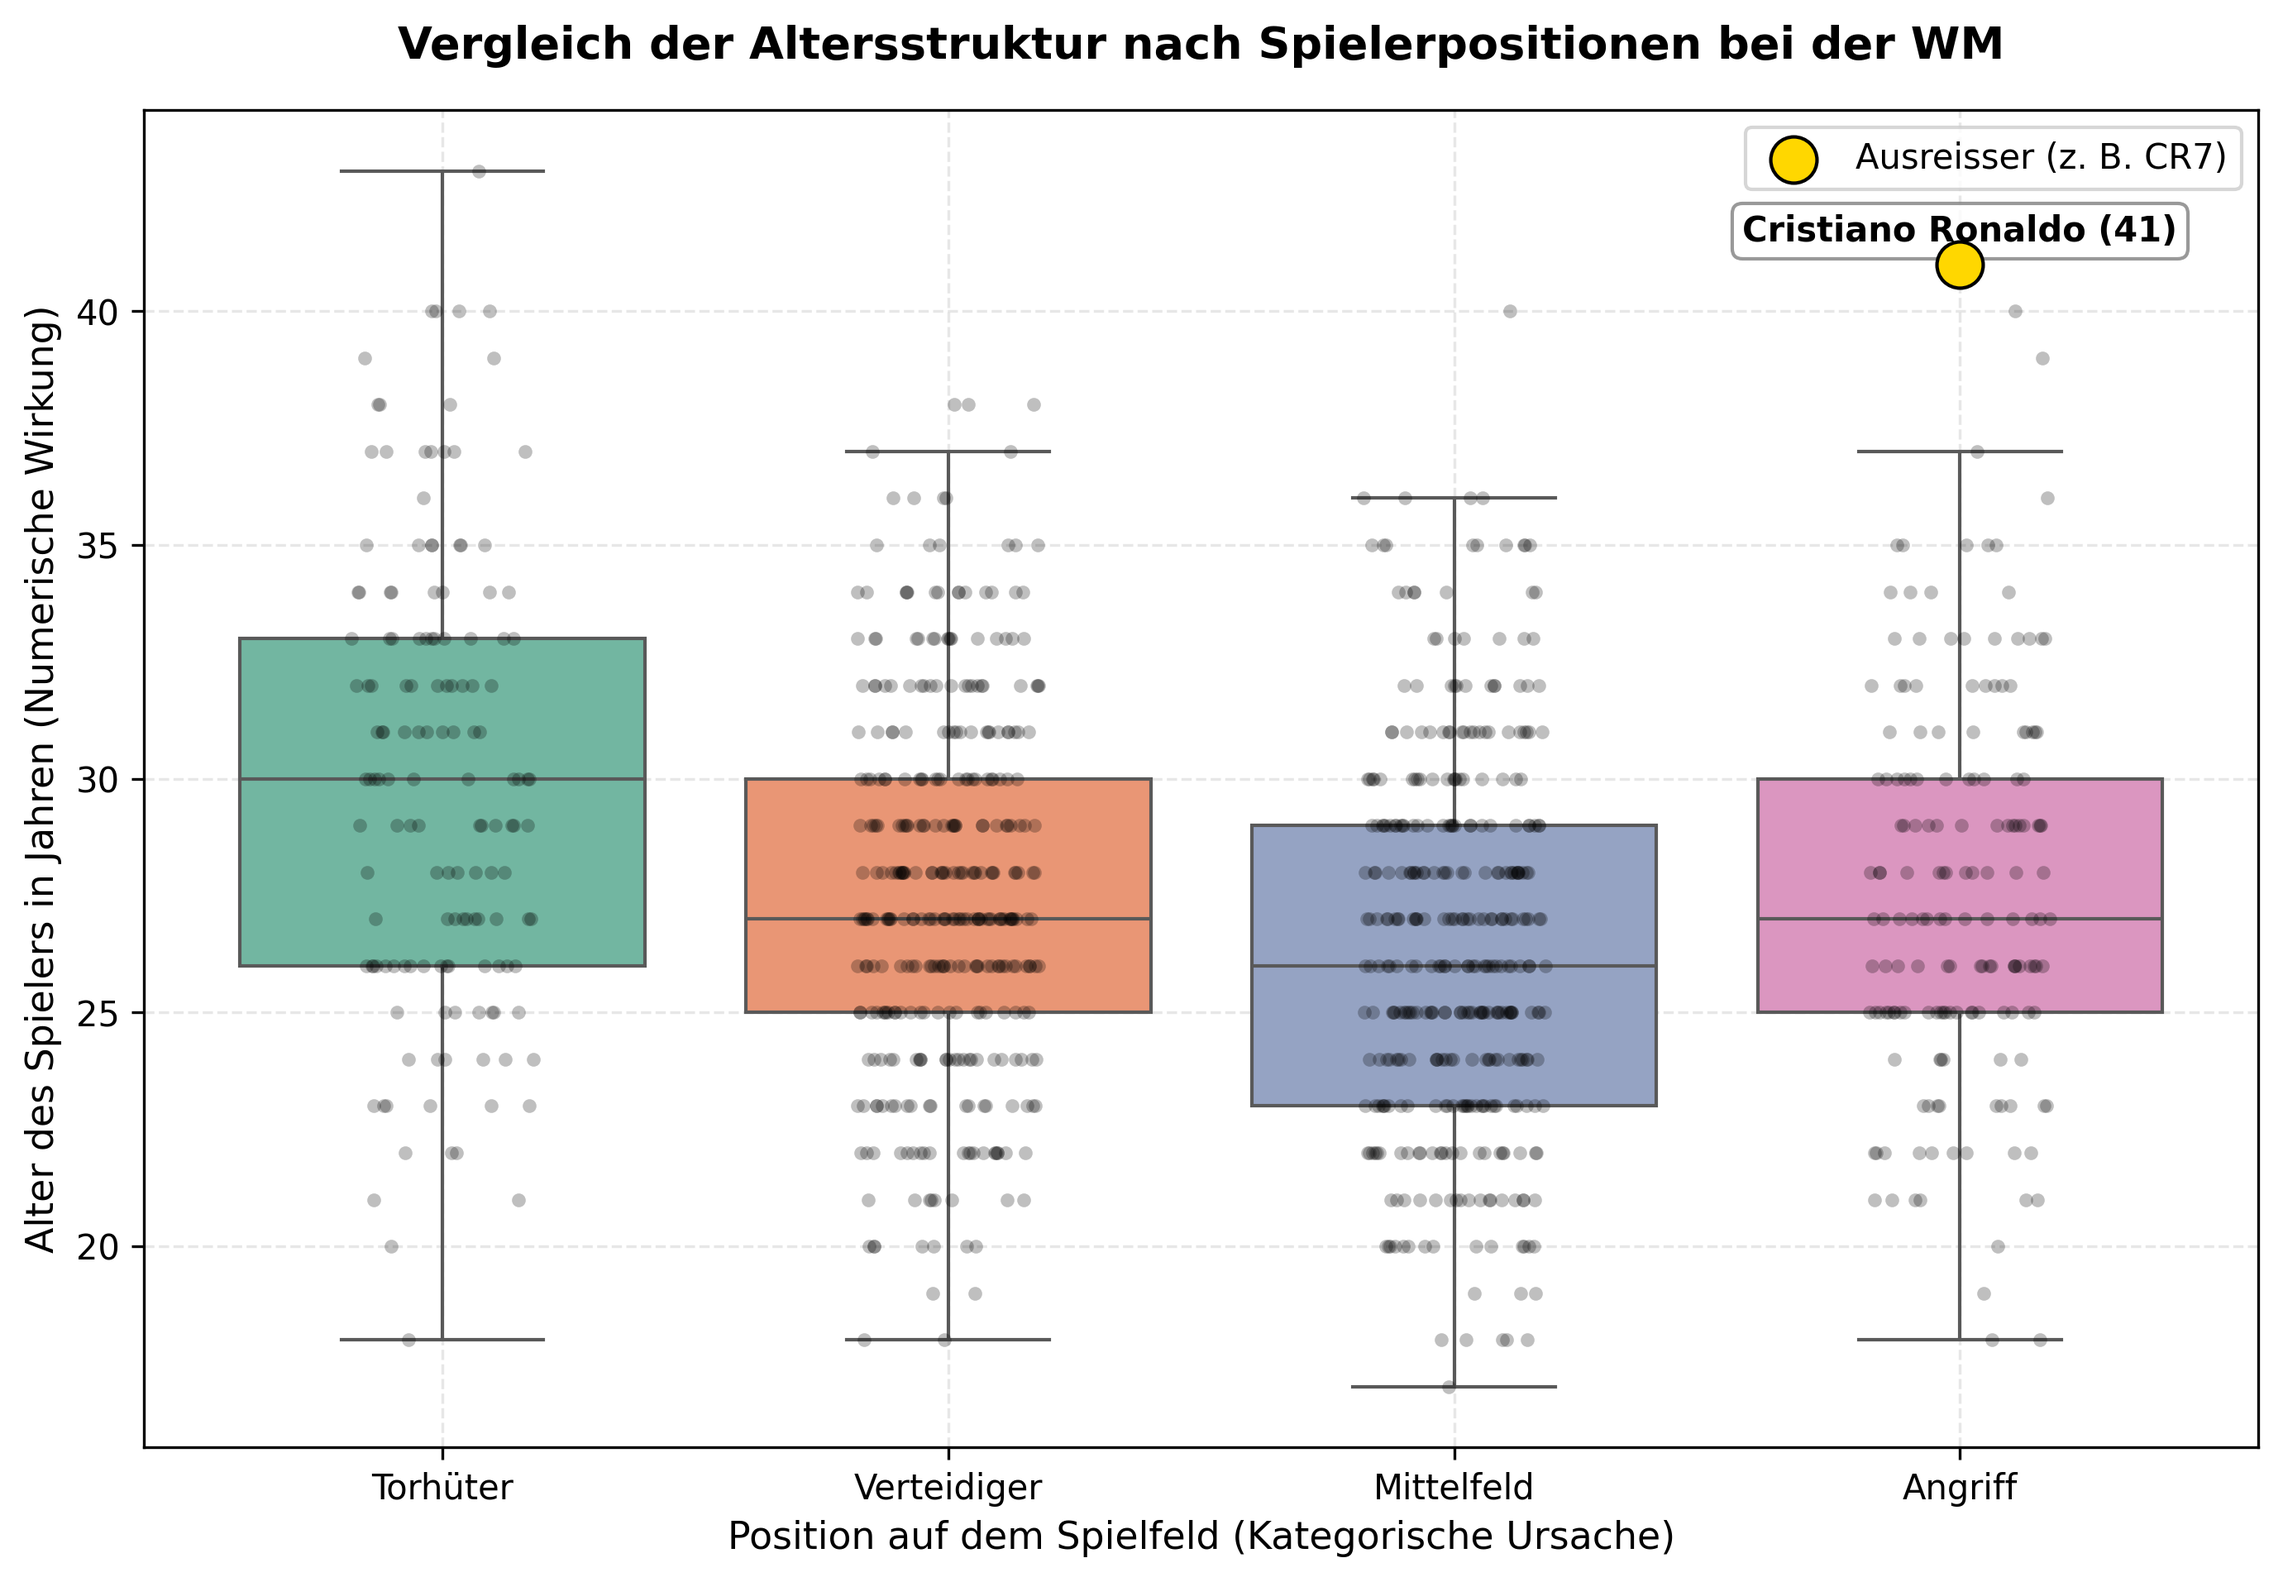
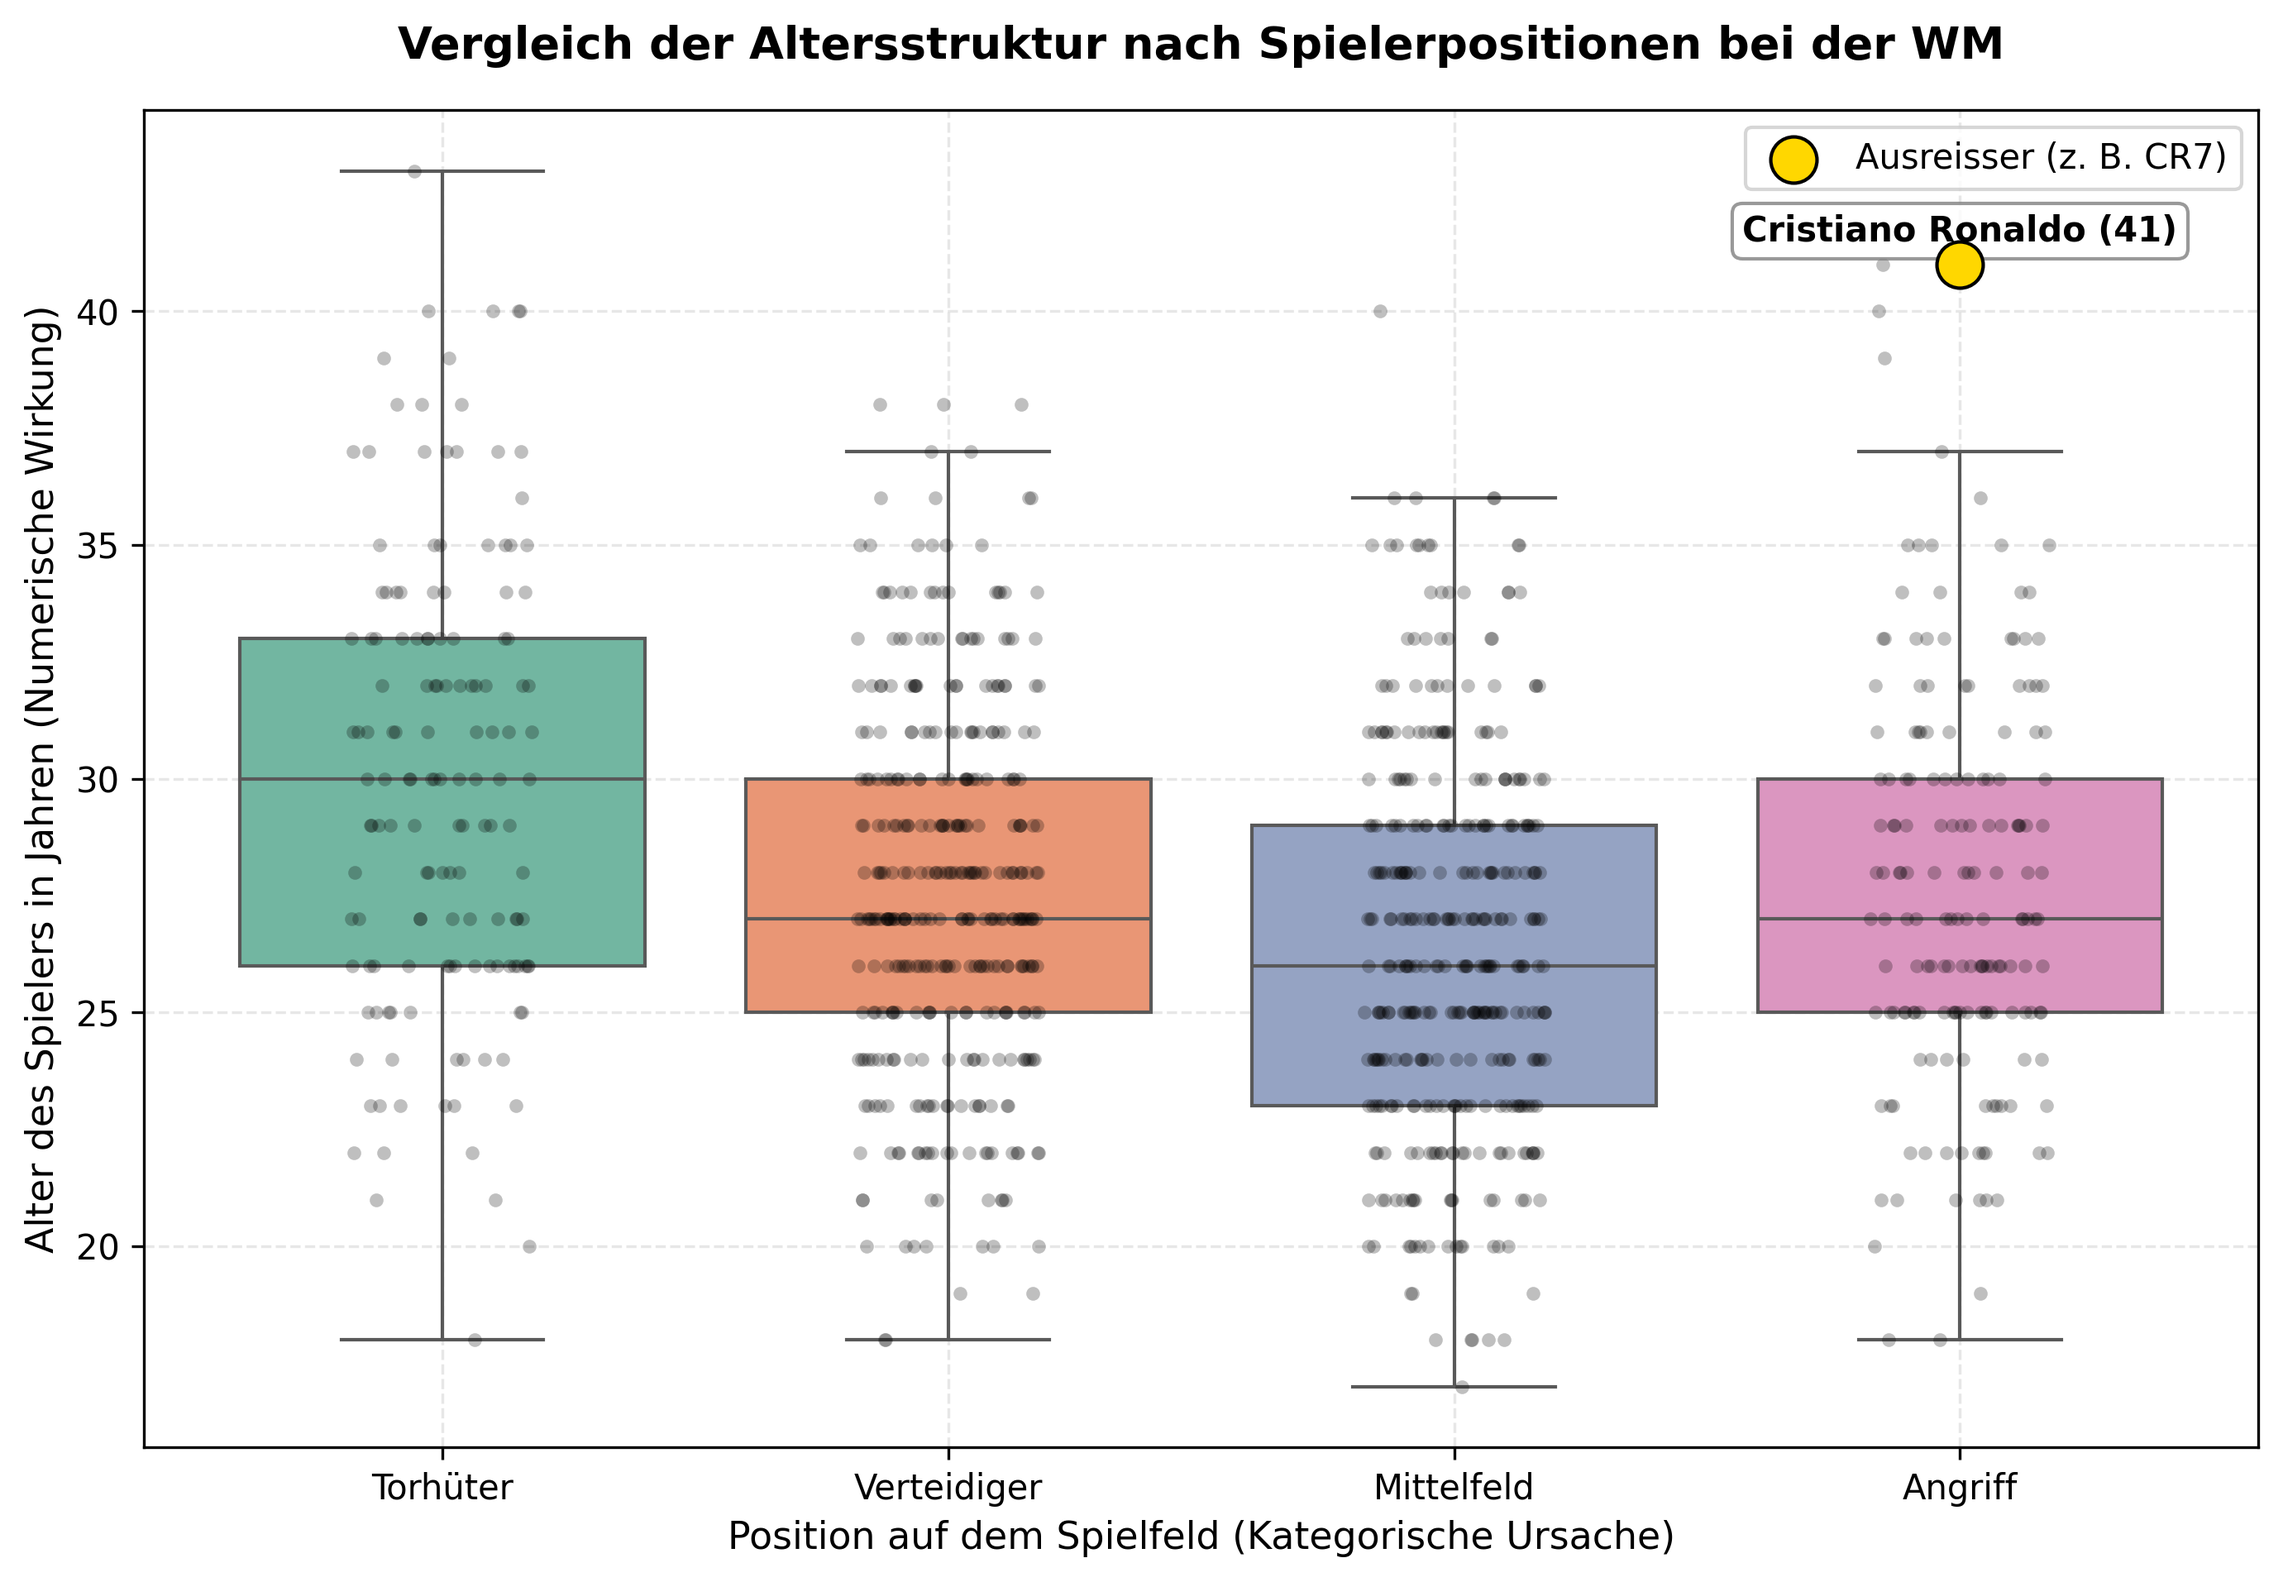
m03: refactoring scripts

diff --git a/cas-bd/modul03/num-num/sales.py b/cas-bd/modul03/num-num/sales.py
@@ -2,6 +2,8 @@
 E-Commerce Analyse: Einfluss der Verweildauer auf den Umsatz
 Datenquelle: https://www.kaggle.com/datasets/kzmontage/e-commerce-website-logs
 
+**Disclaimer**: Dieser Code wurde mit der Hilfe von claude.ai erstellt. 
+
 Struktur:
 1. Daten einlesen & Qualitätscheck
 2. Deskriptive Statistik
